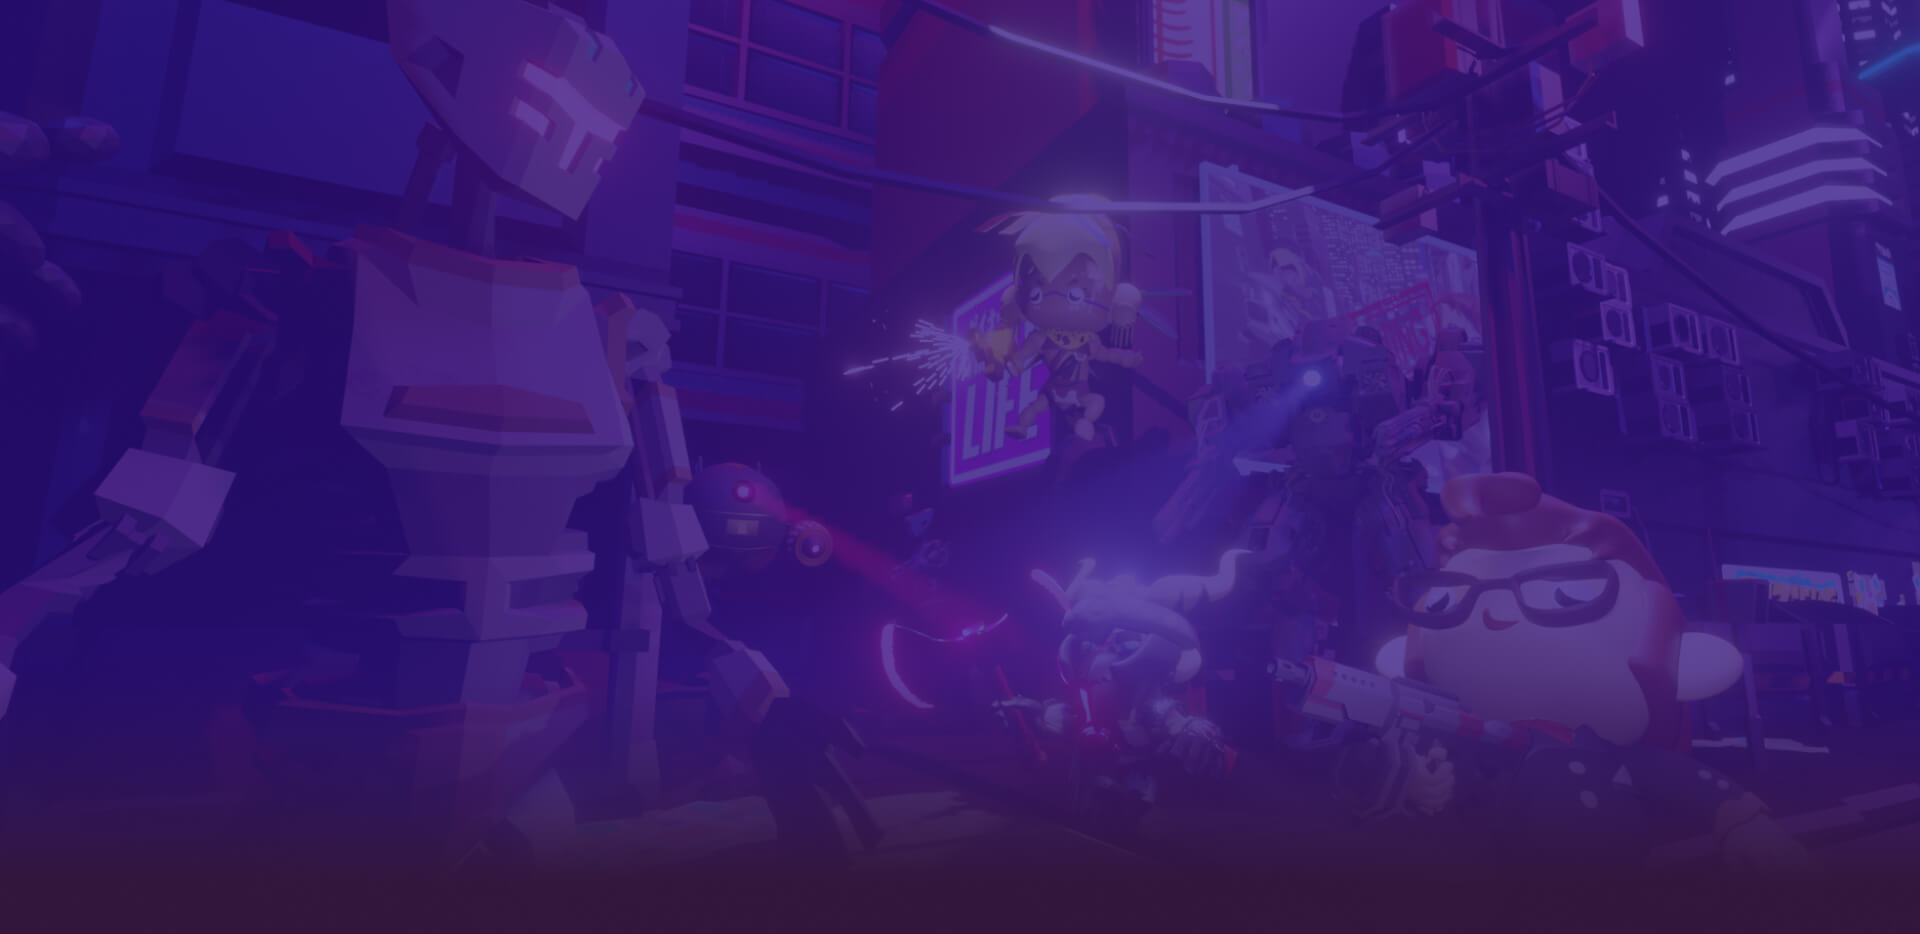
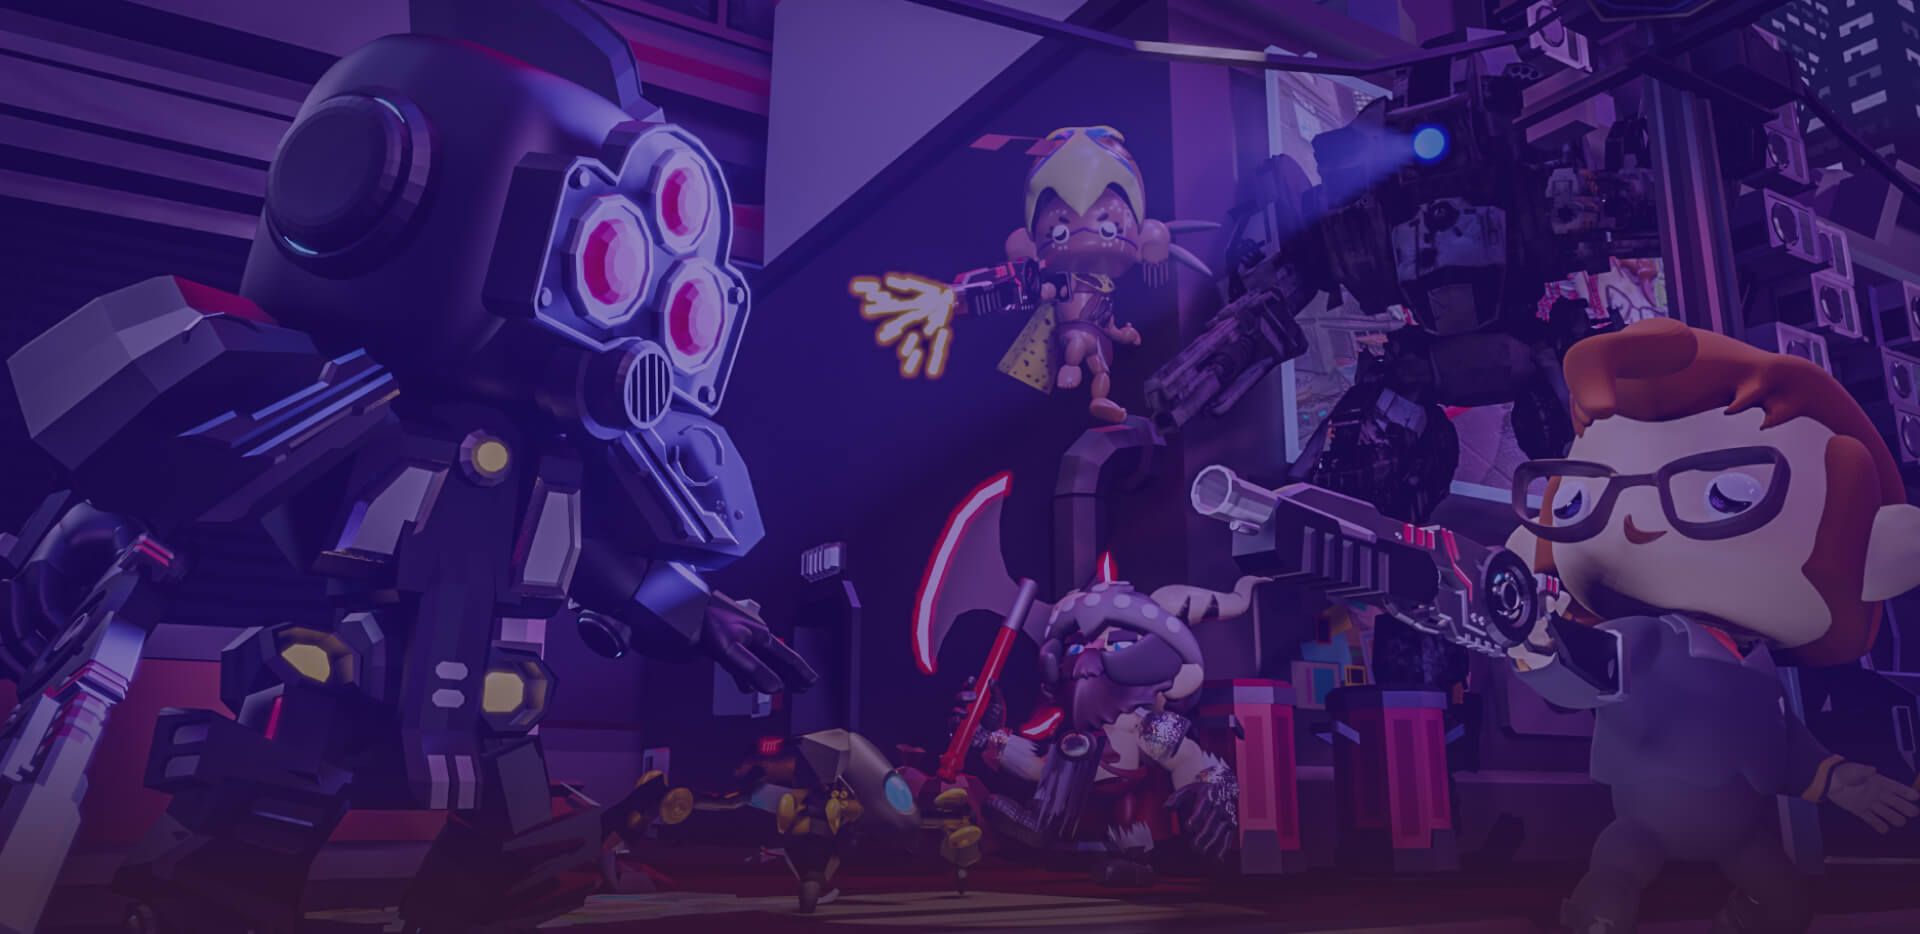
Update

diff --git a/orbit-metaverse-mb/assets/css/style.css b/orbit-metaverse-mb/assets/css/style.css
@@ -277,11 +277,7 @@ header.header.is-active{background:linear-gradient(183.53deg,#33173C 3.07%,rgba(
 .home-tokenomics .el__box__list li.-percent10::before{background:#3fa943;}
 .home-tokenomics .el__box__list li.-percent11::before{background:#95c61d;}
 .home-tokenomics .el__box--thumb{position:relative;width:315px;z-index:1;margin:0 auto 60px;}
-.home-tokenomics .el__box--thumb::before{content:'';position:absolute;top:40px;left:-5px;width:286px;height:286px;
-    box-shadow:0px 5px 20px rgba(219,0,255,0.8),inset 0px -4px 0px rgba(0,0,0,0.25);border-radius:50%;
-    background:url(../img/home-tokenomics-img-circle.png) no-repeat;background-size:contain;
-    /*animation:spinner-rotate 2s linear infinite;*/
-}
+.home-tokenomics .el__box--thumb::before{content:'';position:absolute;top:40px;left:-5px;width:286px;height:286px;box-shadow:0px 5px 20px rgba(219,0,255,0.8),inset 0px -4px 0px rgba(0,0,0,0.25);border-radius:50%;background:url(../img/home-tokenomics-img-circle.png) no-repeat;background-size:contain;    /*animation:spinner-rotate 2s linear infinite;*/}
 .home-tokenomics .dnfix__thumb{padding-top:100%;}
 .home-tokenomics .table,.home-tokenomics .table th{color:#fff;border-color:rgba(255,255,255,.2)!important;}
 .home-tokenomics table th{white-space:nowrap;}
@@ -541,6 +537,8 @@ header.header.is-active{background:linear-gradient(183.53deg,#33173C 3.07%,rgba(
 .games-system__carousel .is-selected .dnfix__thumb{max-width:100%;transform:scale(1.1);}
 .games-system__carousel .slider__item2__thumb{max-width:200px;margin:0 auto;transition:all 1s;height:250px;}
 .games-system__carousel .is-selected .slider__item2__thumb{max-width:100%;transform:scale(1.1);}
+.orbit-meta__content{position:relative;}
+.orbit-meta__content:before{content:'';position:absolute;top:-10%;left:0;width:100%;height:45%;background:linear-gradient(180.27deg,rgba(61,25,104,0) 1.36%,#2a0d57 17.25%,#240a47 32%,rgba(51,23,60,0) 88.28%);pointer-events:none;}
 
 /*PAge games*/
 .play-to-earn__link{position:fixed;bottom:30px;right:30px;z-index:99;animation:pulse 2s infinite;}

diff --git a/assets/css/style.css b/assets/css/style.css
@@ -104,6 +104,7 @@ header.header.is-active{background:linear-gradient(183.53deg,#2C0F85 3.07%,#4e3d
 
 /*Header banner*/
 .header__banner{position:relative;}
+
 /*.header__banner .dnfix__thumb{padding-top:52.6%;}*/
 .header__banner .videoWrapper{padding-bottom:52.6%;}
 .header__banner .el__wrap{position:absolute;top:0;left:0;width:100%;height:100%;display:flex;align-items:center;}
@@ -520,6 +521,8 @@ header.header.is-active{background:linear-gradient(183.53deg,#2C0F85 3.07%,#4e3d
 .games-system__carousel .is-selected .dnfix__thumb{max-width:100%;padding-top:100%;transform:scale(1.1);}
 .games-system__carousel .slider__item2__thumb{max-width:200px;margin:0 auto;transition:all 1s;}
 .games-system__carousel .is-selected .slider__item2__thumb{max-width:100%;transform:scale(1.1);}
+.orbit-meta__content{position:relative;}
+.orbit-meta__content:before{content:'';position:absolute;top:-10%;left:0;width:100%;height:45%;background:linear-gradient(180.27deg,rgba(61,25,104,0) 1.36%,#2a0d57 17.25%,#240a47 32%,rgba(51,23,60,0) 88.28%);pointer-events:none;}
 
 /*PAge games*/
 .play-to-earn__link{position:fixed;bottom:30px;right:30px;z-index:99;animation:pulse 2s infinite;}

diff --git a/orbit-meta.html b/orbit-meta.html
@@ -68,7 +68,7 @@
         </div>
       </section>
 
-      <section class="games-content pb-5">
+      <section class="games-content orbit-meta__content pb-5">
 
         <div class="games-content__slider nav" id="orbitTab" role="tablist">
           <div class="container">

diff --git a/orbit-metaverse-mb/orbit-meta.html b/orbit-metaverse-mb/orbit-meta.html
@@ -57,7 +57,7 @@
         </div>
       </section>
 
-      <section class="games-content pb-5">
+      <section class="games-content orbit-meta__content pb-5">
 
         <div class="games-content__slider nav" id="orbitTab" role="tablist">
           <div class="container">
